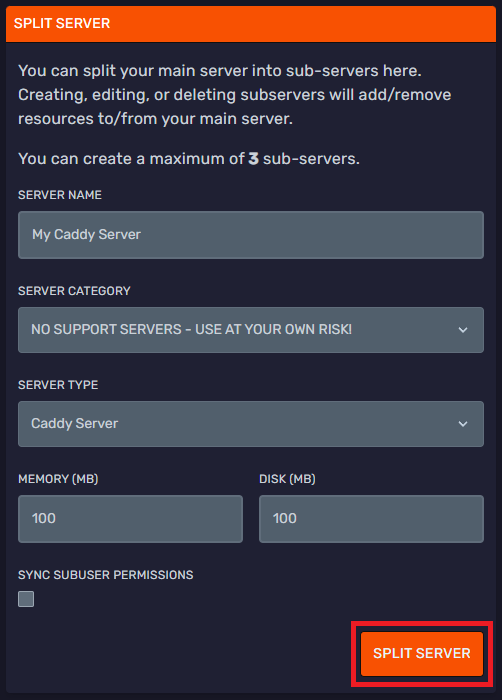
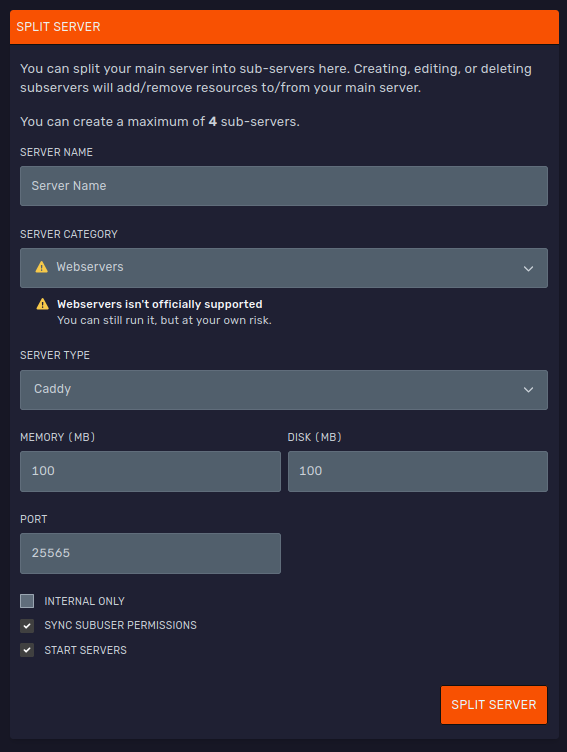
docs: point unsupported guides at the new pre-install categories (#474)

diff --git a/docs/other-servers/ark.md b/docs/other-servers/ark.md
@@ -20,7 +20,7 @@ ARK - Survival Evolved is currently an unsupported server, this means that Bloom
 
 ### How to change your main server to ARK Survival Evolved
 
-First, go to the [game panel](https://mc.bloom.host) and select your server, then click on the **server split** button. Here you will be able to change your existing server to ARK Survival Evolved by clicking the three dots to the right of the server name, selecting **Change Server Type** then under Server Category select **No Supports Servers** and in **Server Type** dropdown select **ARK Survival Evolved**. Remember to click the **Reinstall** button to reinstall the server, this process will start downloading ARK Survival Server to your Bloom server, keep in mind that this process will take a while because it has to download around 20GB of games files.
+First, go to the [game panel](https://mc.bloom.host) and select your server, then click on the **server split** button. Here you will be able to change your existing server to ARK Survival Evolved by clicking the three dots to the right of the server name, selecting **Change Server Type** then under Server Category select **Other Games** and in **Server Type** dropdown select **ARK Survival Evolved**. Remember to click the **Reinstall** button to reinstall the server, this process will start downloading ARK Survival Server to your Bloom server, keep in mind that this process will take a while because it has to download around 20GB of game files.
 
 ### How to create a split ARK Survival Evolved server
 

diff --git a/docs/other-servers/grafana.md b/docs/other-servers/grafana.md
@@ -36,7 +36,7 @@ We're now done with UnifiedMetrics, onto Prometheus :)
 
 ## Prometheus
 
-Now we're going to set up a Prometheus server. You will want to split a Prometheus instance which is located under the "NO SUPPORT SERVERS" category with 150MB of RAM and 10GB of Storage (may need to be adjusted to your needs).
+Now we're going to set up a Prometheus server. You will want to split a Prometheus instance which is located under the "Webservers" category with 150MB of RAM and 10GB of Storage (may need to be adjusted to your needs).
 For assistance on how the server splitter works, please refer to the [server splitter page](/split-server).
 
 Once the server is created, head to it under the Server Split tab.
@@ -49,7 +49,7 @@ To do this, we're simply going to change `localhost:9090` to your server's IP ad
 
 Now you can use Grafana Cloud, or a self hosted instance of Grafana but in this guide we're gonna use a self hosted Grafana instance using Bloom's server splitter :)
 
-Time to split a Grafana instance using the server splitter with 150MB of RAM and 1GB of storage (may need to be adjusted to your needs).
+Time to split a Grafana instance, located under the "Webservers" category, using the server splitter with 150MB of RAM and 1GB of storage (may need to be adjusted to your needs).
 
 Once the server is created, change it to the default Grafana port (3000) under the Server Split tab.
 

diff --git a/docs/other-servers/caddy-server.md b/docs/other-servers/caddy-server.md
@@ -19,11 +19,11 @@ This guide will create a Caddy split server on Bloom.host.
 
 Head on over to "Server Splitter" tab in your Minecraft control panel.
 
-![DuckPanel Server Splitter tab](/extras/caddy_server/5.png)
+![Server Splitter form configured for a Caddy server](/extras/caddy_server/5.png)
 
-Now, enter a name for you server and choose "NO SUPPORT SERVERS" under "SERVER CATEGORY". Then choose "Caddy Server" under "SERVER TYPE". Set MEMORY to 100MB and DISK to how much storage your Caddy server needs. After that, press **SPLIT SERVER**.
+Now, enter a name for your server and choose "Webservers" under "SERVER CATEGORY". Then choose "Caddy" under "SERVER TYPE". Set MEMORY to 100MB and DISK to how much storage your Caddy server needs. After that, press **SPLIT SERVER**.
 
-![Server Splitter form configured for a Caddy server](/extras/caddy_server/4.png)
+![Split server confirmation dialog](/extras/caddy_server/4.png)
 
 After you press **SPLIT SERVER** confirm you would like to split your server by pressing **YES, SPLIT THIS SERVER**. This will stop your main server and create a split Caddy server.
 

diff --git a/docs/running_a_server/mcaselector.md b/docs/running_a_server/mcaselector.md
@@ -42,11 +42,11 @@ Archiving can take some time, especially on larger servers. For more information
 With your server still stopped, follow these steps to install MCASelector:
 
 1. Open **Settings** in DuckPanel.
-2. Find **Change Server Type** and select the **No Support Servers** category.
+2. Find **Change Server Type** and select the **Minecraft Tools** category.
 3. Select **MCASelector**, then click **Change Server Type**.
 4. Wait for the installation to finish before continuing.
 
-![MCASelector installation completed in DuckPanel](/running_a_server/mcaselector/1.png)
+![Change Server Type set to Minecraft Tools and MCASelector](/running_a_server/mcaselector/1.png)
 
 ---
 
